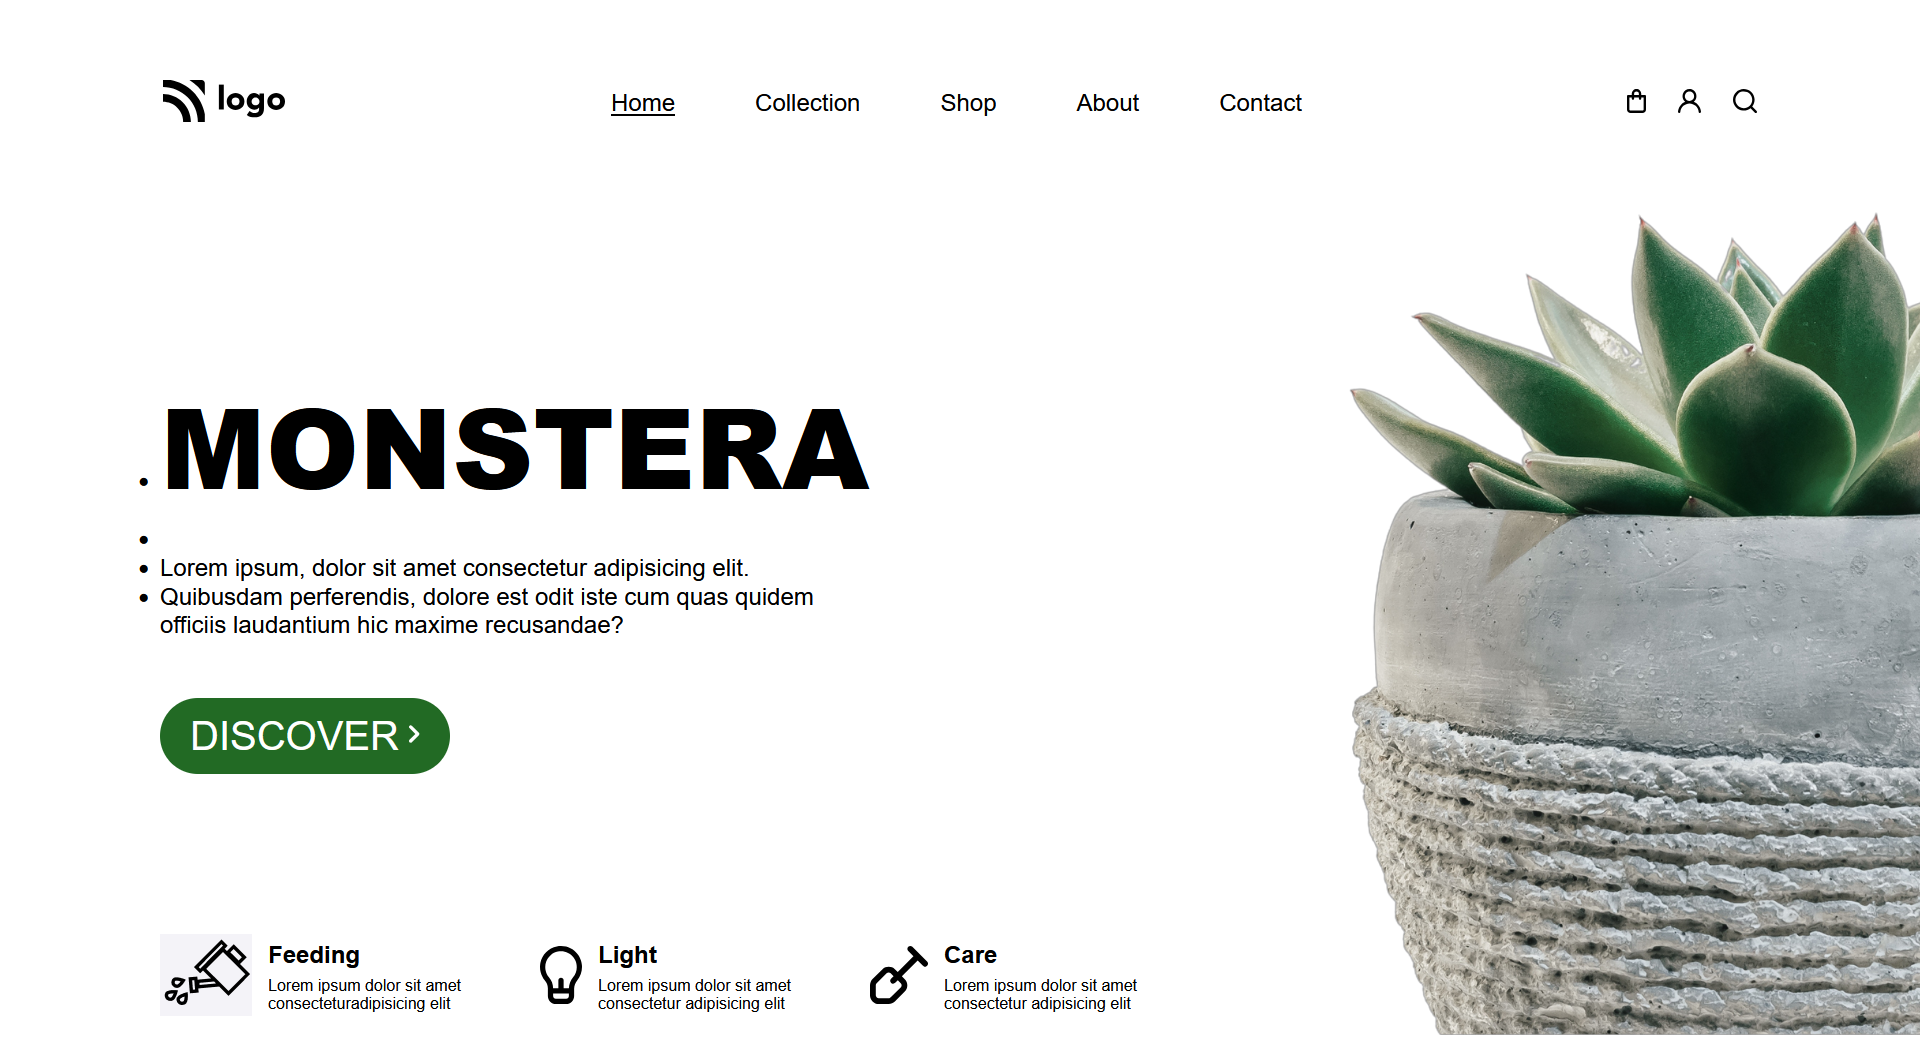
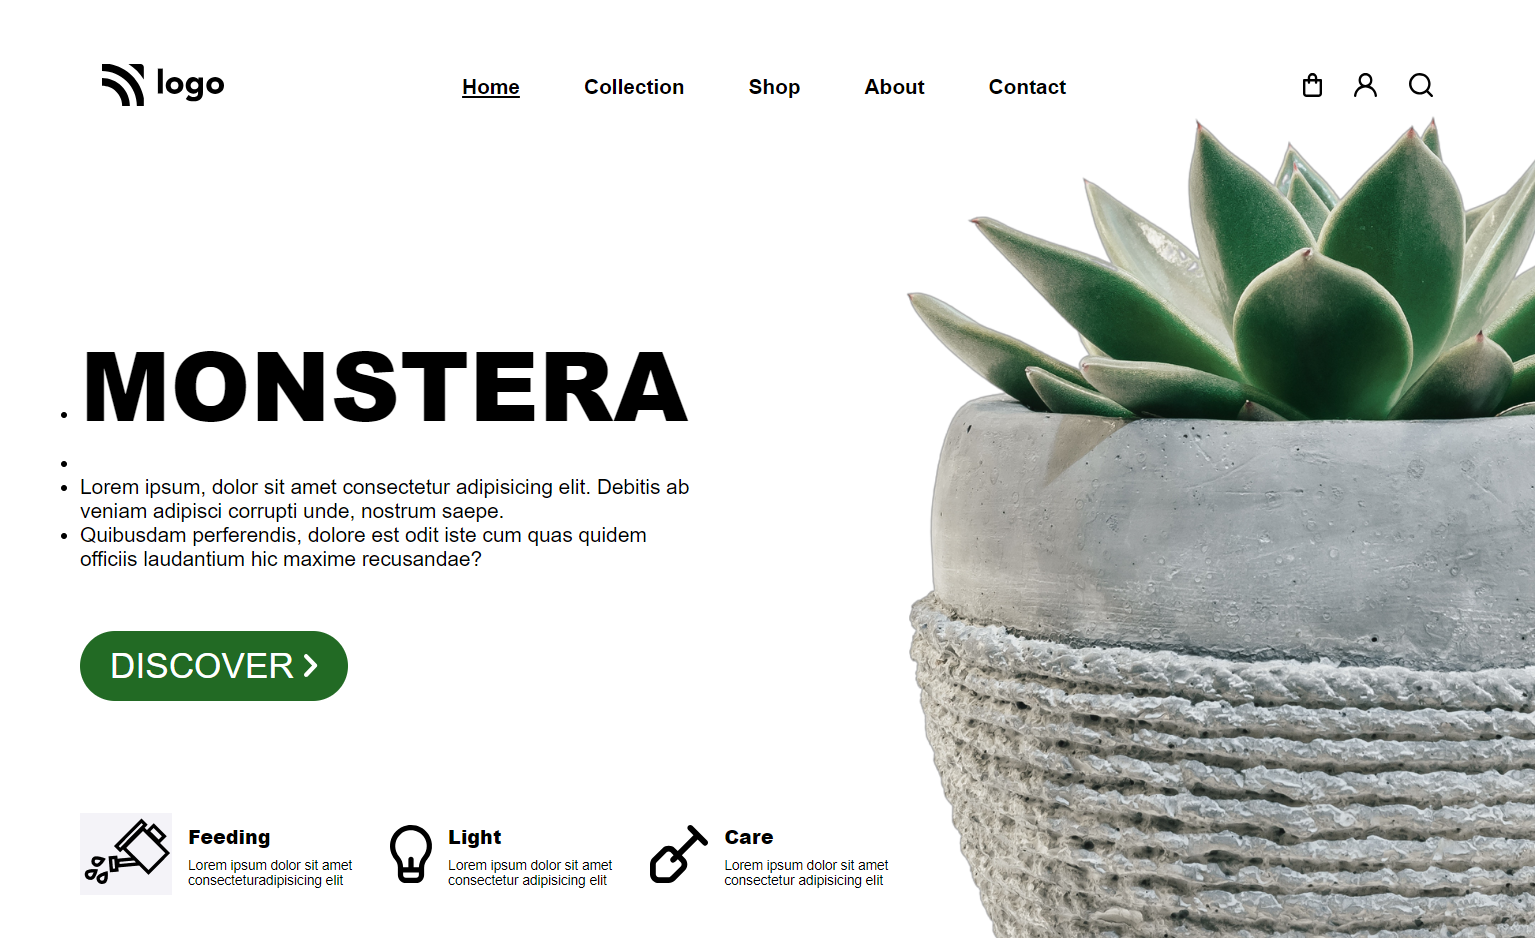
modify css code for better view

diff --git a/index.html b/index.html
@@ -26,18 +26,16 @@
         display: flex;
         align-items: center;
         justify-content: space-around;
-        margin-top: 5rem;
+        margin-top: 4rem;
+        gap: 2rem;
       }
 
       #navMid{
         display: flex;
         align-items: center;
-        gap: 5rem;
-        font-size: 1.5rem;
-      }
-
-      #navMid :nth-child(1){
-        font-weight: 200;
+        gap: 4rem;
+        font-size: 1.3rem;
+        font-weight: 700
       }
 
       #navMid > :nth-child(1){
@@ -54,22 +52,22 @@
         display: flex;
         align-items: center;
         justify-content: space-between;
-        margin-top: 5rem;
-        margin-left: 10rem;
+        margin-left: 5rem;
+
       }
 
       #midWholePart11{
-        font-size: 1.5rem;
+        font-size: 1.3rem;
       }
 
       #midWholePart11 li{
-        margin-right: 30rem;
+        width: 65vh;
       }
 
       #monstera{
-        font-size: 7rem;
+        font-size: 6rem;
         font-weight: 800;
-        padding-top: 10rem;
+        margin-top: 10rem;
       }
 
       #midWholePart12 {
@@ -89,39 +87,43 @@
 
 
       #midWholePart121 h1 {
-        font-size: 2.5rem;
+        font-size: 2.2rem;
         font-weight: 100;
       }
 
 
       #midWholePart122 img {
-        height: 18px;
+        height: 23px;
         margin-left: 10px;
+        display: flex ;
+        align-items: center;
+        
       }
 
       #midWholePart13{
         display: flex;
-        margin-top: 10rem;
+        margin-top: 7rem;
+        gap: 2rem;
       }
 
       .midWholePart13Parts{
         display:flex ;
         justify-content: space-between;
         align-items: center;
+        gap: 1rem;
 
       }
 
       .text{
-        padding-left: 1rem;
         margin-top: 0.5rem;
-        width: 17rem;
+        font-size: .85rem;
+        width: 18vh;
       }
 
       .midWholePart13Parts h4{
-        padding-left: 1rem;
-        font-size: 1.5rem;
+        font-size: 1.2rem;
+        font-weight: 900;
       }
-
 
     </style>
   </head>

diff --git a/readme.md b/readme.md
@@ -1,0 +1,12 @@
+# HTML-CSS-PROJECT-5
+
+This project explores the use of the Flex property and Z-index in HTML/CSS.
+
+# Description
+
+In this project, I have learnt the Flex property, which is a powerful tool in CSS. With the Flex property, I was able to easily manipulate the arrangement of elements within a container, adjusting their size, alignment, and order as needed.
+
+
+# Screenshot
+
+ ! [image] (./Screenshot.png)
